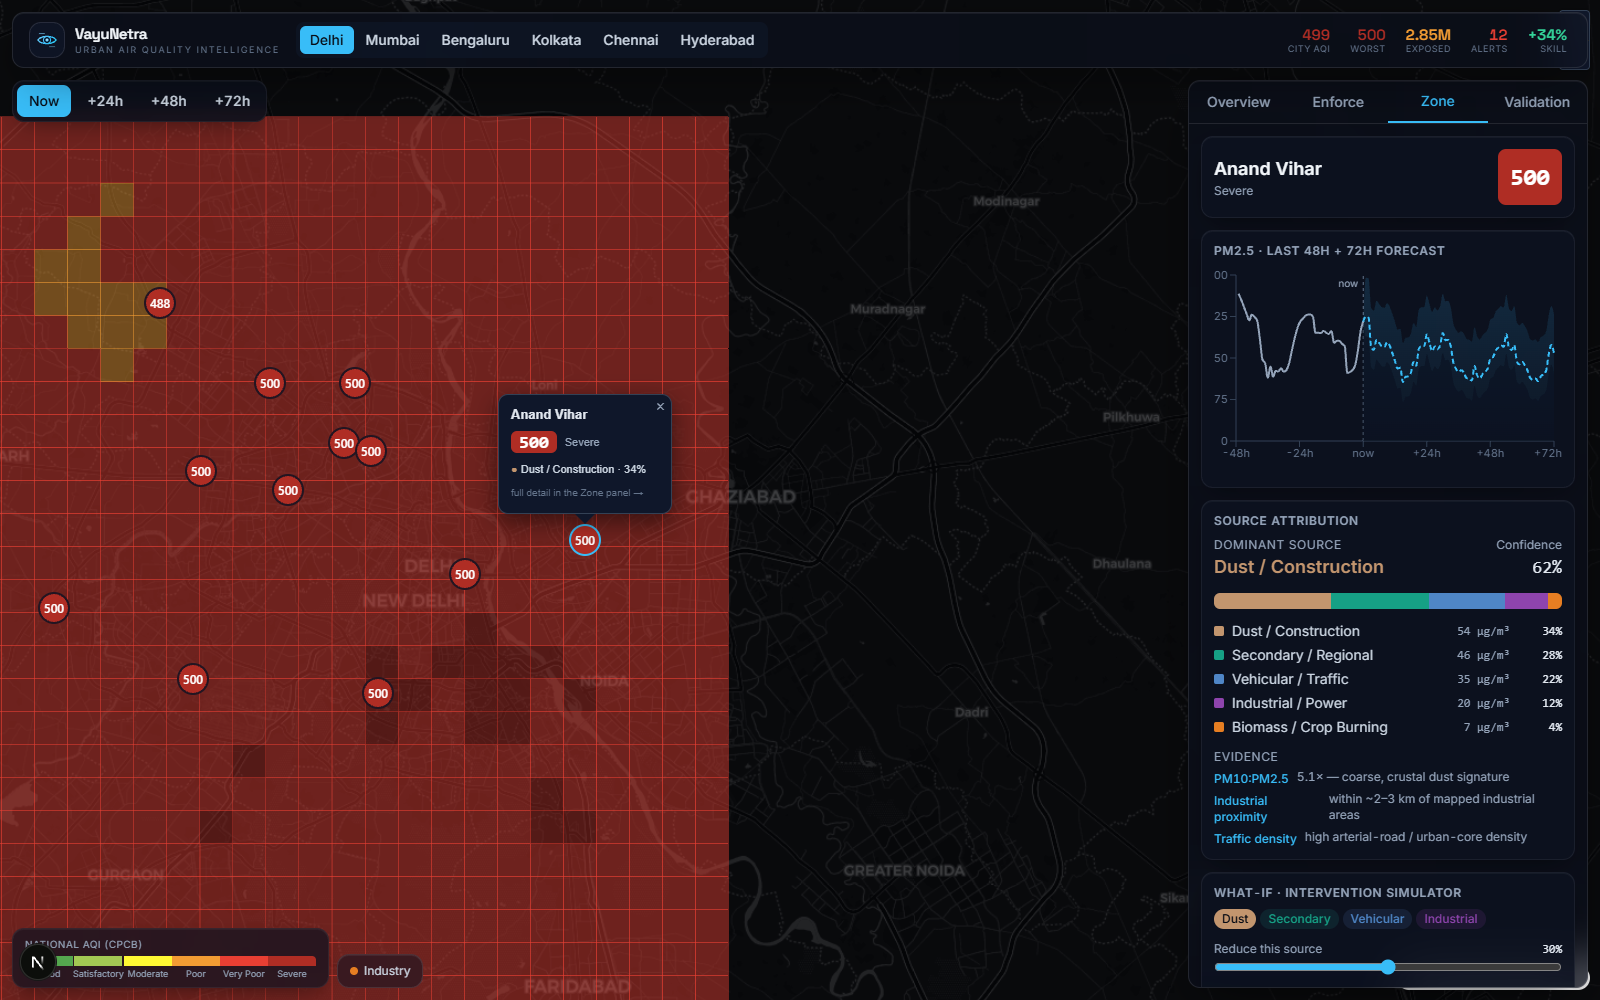
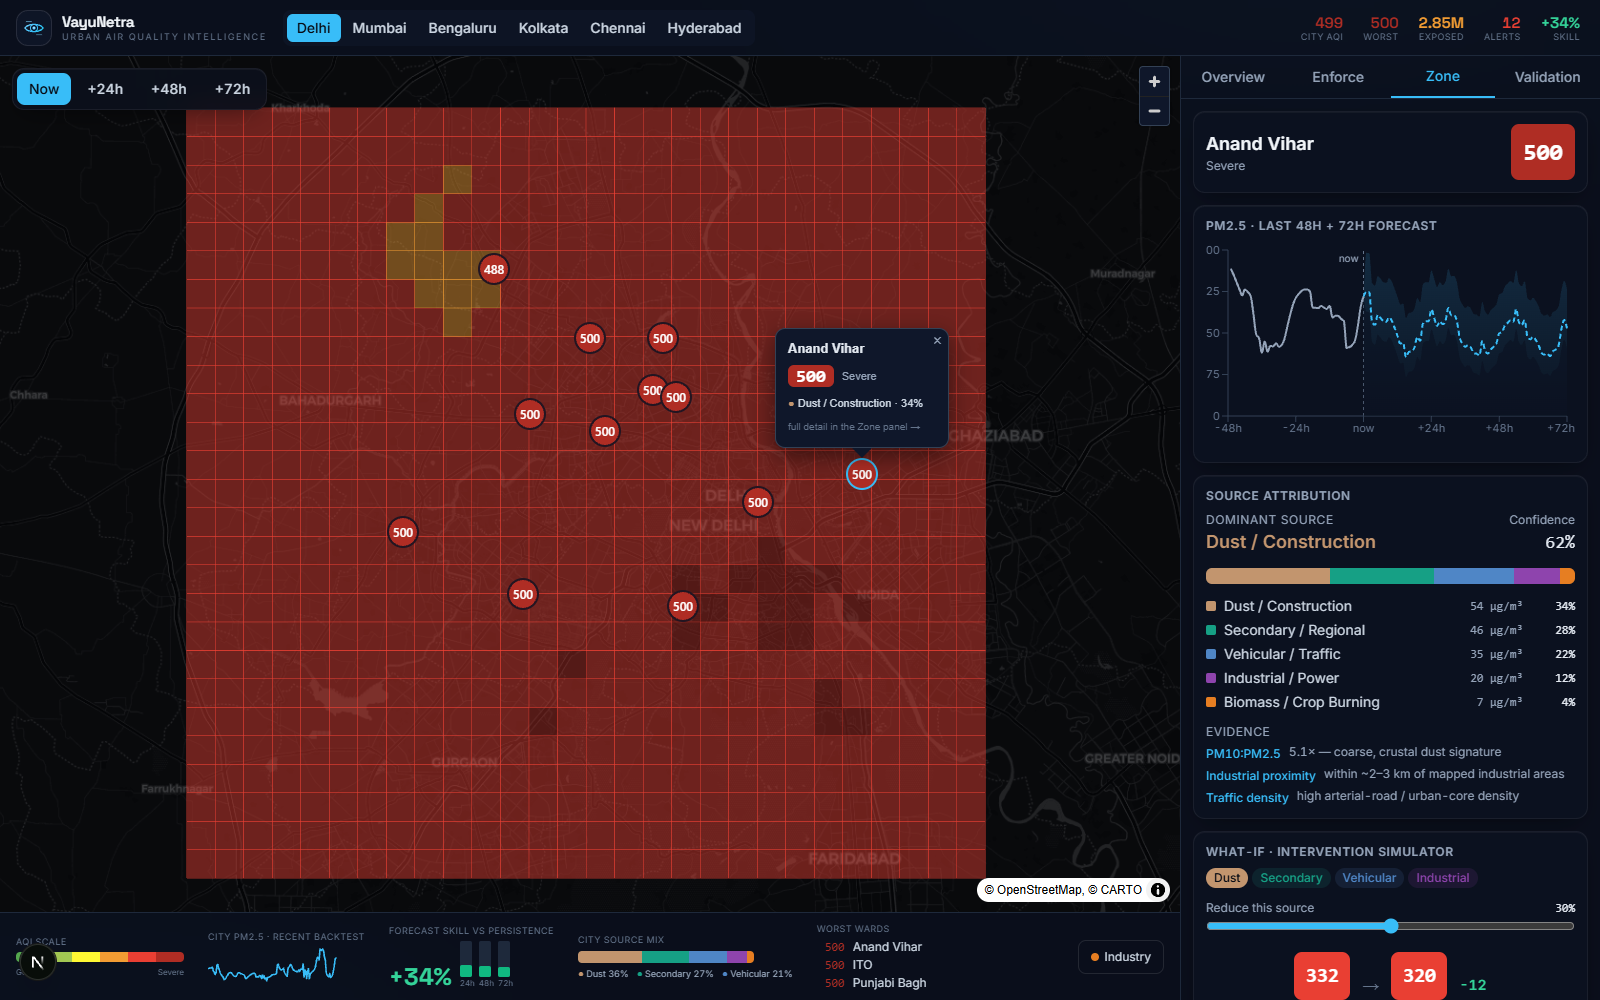
refactor(ui): robust side-by-side layout — detail rail beside map, no map-jump
- root cause of the click-goes-behind bug: floating panels over a full-bleed map plus an
  easeTo pan that threw the clicked marker behind a panel
- new shell: header on top, then map column and a solid detail rail side-by-side; telemetry
  strip under the map. The rail never overlaps the map, so nothing can hide
- clicking a station no longer pans the map; callout shows in place, detail fills the rail
- keeps the polish: glass header, custom logo, type system, telemetry strip

diff --git a/frontend/src/app/page.tsx b/frontend/src/app/page.tsx
@@ -78,7 +78,7 @@ export default function Page() {
   if (!cities.length && error) {
     return (
       <main className="grid min-h-screen place-items-center p-6">
-        <div className="glass max-w-md p-6 text-center">
+        <div className="card max-w-md p-6 text-center">
           <h1 className="text-lg font-semibold text-rose-400">Cannot reach the API</h1>
           <p className="mt-2 text-sm text-slate-400">{error}</p>
           <p className="mt-3 text-xs text-slate-500">
@@ -102,79 +102,82 @@ export default function Page() {
   }
 
   return (
-    <div className="relative h-screen w-screen overflow-hidden">
-      <div className="absolute inset-0">
-        <AirMap
-          city={city}
-          grid={grid}
-          attributions={intel?.attributions ?? []}
-          selectedZoneId={selectedZoneId}
-          onSelectZone={onSelectZone}
-          industrial={intel?.landuse?.industrial}
-          showIndustry={showIndustry}
-        />
-      </div>
-
+    <div className="flex h-screen flex-col">
       <Topbar cities={cities} cityId={cityId} onCity={setCityId} intel={intel} />
 
-      <div className="absolute left-3 top-20 z-20 flex flex-col items-start gap-2">
-        <TimeControl value={time} onChange={setTime} />
-        {time.layer === "forecast" && (
-          <div className="glass px-3 py-1.5 text-xs text-slate-200">Predicted AQI · +{time.horizon}h</div>
-        )}
-      </div>
-
-      {intel && (
-        <BottomStrip
-          intel={intel}
-          showIndustry={showIndustry}
-          onToggleIndustry={() => setShowIndustry((s) => !s)}
-        />
-      )}
-
-      <aside className="glass absolute bottom-3 right-3 top-20 z-20 flex w-[400px] flex-col overflow-hidden">
-        <div className="flex flex-shrink-0 border-b border-white/10">
-          {(["overview", "enforce", "zone", "metrics"] as Tab[]).map((t) => (
-            <button
-              key={t}
-              onClick={() => setTab(t)}
-              className={clsx(
-                "flex-1 py-2.5 text-sm font-medium capitalize transition-colors",
-                tab === t ? "border-b-2 border-brand text-brand" : "text-slate-400 hover:text-slate-200",
+      <div className="flex min-h-0 flex-1">
+        {/* map column: map + telemetry strip (nothing floats over the map except controls) */}
+        <div className="flex min-w-0 flex-1 flex-col">
+          <div className="relative min-h-0 flex-1">
+            <AirMap
+              city={city}
+              grid={grid}
+              attributions={intel?.attributions ?? []}
+              selectedZoneId={selectedZoneId}
+              onSelectZone={onSelectZone}
+              industrial={intel?.landuse?.industrial}
+              showIndustry={showIndustry}
+            />
+            <div className="absolute left-3 top-3 z-10 flex flex-col items-start gap-2">
+              <TimeControl value={time} onChange={setTime} />
+              {time.layer === "forecast" && (
+                <div className="card px-3 py-1.5 text-xs text-slate-200">Predicted AQI · +{time.horizon}h</div>
               )}
-            >
-              {t === "enforce" ? "Enforce" : t === "metrics" ? "Validation" : t}
-            </button>
-          ))}
+            </div>
+            {loading && (
+              <div className="absolute inset-0 z-20 grid place-items-center bg-ink-950/40 backdrop-blur-sm">
+                <div className="card px-4 py-3 text-sm text-slate-200">Building intelligence…</div>
+              </div>
+            )}
+          </div>
+          {intel && (
+            <BottomStrip
+              intel={intel}
+              showIndustry={showIndustry}
+              onToggleIndustry={() => setShowIndustry((s) => !s)}
+            />
+          )}
         </div>
-        <div key={tab} ref={sidebarRef} className="vn-fade min-h-0 flex-1 overflow-y-auto p-3">
-          {tab === "overview" &&
-            (intel ? (
-              <OverviewPanel intel={intel} onSelectZone={onSelectZone} onCity={setCityId} activeCityId={cityId} />
-            ) : (
-              <Placeholder text="Loading overview…" />
-            ))}
-          {tab === "enforce" &&
-            (intel ? (
-              <EnforcementPanel city={city} items={intel.enforcement} onSelectZone={onSelectZone} />
-            ) : (
-              <Placeholder text="Loading enforcement priorities…" />
-            ))}
-          {tab === "zone" &&
-            (selectedZoneId && intel ? (
-              <ZonePanel city={city} zoneId={selectedZoneId} attribution={attribution} advisory={advisory} />
-            ) : (
-              <Placeholder text="Click a station on the map to see its 72-hour forecast, source attribution and citizen advisory." />
-            ))}
-          {tab === "metrics" && (intel ? <MetricsPanel intel={intel} /> : <Placeholder text="Loading metrics…" />)}
-        </div>
-      </aside>
 
-      {loading && (
-        <div className="absolute inset-0 z-40 grid place-items-center bg-ink-950/40 backdrop-blur-sm">
-          <div className="glass px-4 py-3 text-sm text-slate-200">Building intelligence…</div>
-        </div>
-      )}
+        {/* detail rail — beside the map, so it can never hide what you clicked */}
+        <aside className="flex w-[420px] flex-shrink-0 flex-col border-l border-ink-700 bg-ink-900/60 backdrop-blur">
+          <div className="flex flex-shrink-0 border-b border-ink-700">
+            {(["overview", "enforce", "zone", "metrics"] as Tab[]).map((t) => (
+              <button
+                key={t}
+                onClick={() => setTab(t)}
+                className={clsx(
+                  "flex-1 py-2.5 text-sm font-medium capitalize transition-colors",
+                  tab === t ? "border-b-2 border-brand text-brand" : "text-slate-400 hover:text-slate-200",
+                )}
+              >
+                {t === "enforce" ? "Enforce" : t === "metrics" ? "Validation" : t}
+              </button>
+            ))}
+          </div>
+          <div key={tab} ref={sidebarRef} className="vn-fade min-h-0 flex-1 overflow-y-auto p-3">
+            {tab === "overview" &&
+              (intel ? (
+                <OverviewPanel intel={intel} onSelectZone={onSelectZone} onCity={setCityId} activeCityId={cityId} />
+              ) : (
+                <Placeholder text="Loading overview…" />
+              ))}
+            {tab === "enforce" &&
+              (intel ? (
+                <EnforcementPanel city={city} items={intel.enforcement} onSelectZone={onSelectZone} />
+              ) : (
+                <Placeholder text="Loading enforcement priorities…" />
+              ))}
+            {tab === "zone" &&
+              (selectedZoneId && intel ? (
+                <ZonePanel city={city} zoneId={selectedZoneId} attribution={attribution} advisory={advisory} />
+              ) : (
+                <Placeholder text="Click a station on the map to see its 72-hour forecast, source attribution and citizen advisory." />
+              ))}
+            {tab === "metrics" && (intel ? <MetricsPanel intel={intel} /> : <Placeholder text="Loading metrics…" />)}
+          </div>
+        </aside>
+      </div>
     </div>
   );
 }

diff --git a/frontend/src/components/AirMap.tsx b/frontend/src/components/AirMap.tsx
@@ -174,8 +174,7 @@ export default function AirMap({
       .setLngLat([z.center.lon, z.center.lat])
       .setHTML(html)
       .addTo(map);
-    map.easeTo({ center: [z.center.lon, z.center.lat], duration: 500,
-                 padding: { top: 80, right: 430, bottom: 90, left: 0 } });
+    // intentionally do NOT pan the map on selection — moving the map hides what was clicked.
   }, [ready, selectedZoneId, attributions, city]);
 
   // zone HTML markers (no glyph dependency, full styling control)
@@ -215,7 +214,7 @@ export default function AirMap({
     if (!ready || !map) return;
     const b = city.bbox;
     map.fitBounds([[b.min_lon, b.min_lat], [b.max_lon, b.max_lat]],
-      { padding: { top: 90, right: 430, bottom: 120, left: 40 }, duration: 700 });
+      { padding: { top: 48, right: 48, bottom: 48, left: 48 }, duration: 700 });
   }, [ready, city]);
 
   // NOTE: maplibre-gl.css forces `.maplibregl-map { position: relative }`, which overrides a

diff --git a/frontend/src/components/BottomStrip.tsx b/frontend/src/components/BottomStrip.tsx
@@ -47,7 +47,7 @@ export default function BottomStrip({
   const worst = [...intel.attributions].sort((a, b) => b.aqi - a.aqi).slice(0, 3);
 
   return (
-    <div className="glass absolute bottom-3 left-3 right-[416px] z-20 flex h-[92px] items-center gap-6 overflow-x-auto px-4">
+    <div className="flex h-[88px] flex-shrink-0 items-center gap-6 overflow-x-auto border-t border-ink-700 bg-ink-900/60 px-4 backdrop-blur">
       <Seg title="AQI scale">
         <div className="flex overflow-hidden rounded">
           {AQI_BANDS.map((b) => <span key={b.label} className="h-2.5 w-7" style={{ background: b.color }} title={b.label} />)}

diff --git a/frontend/src/components/Topbar.tsx b/frontend/src/components/Topbar.tsx
@@ -33,7 +33,7 @@ export default function Topbar({
   const severe = intel?.alerts?.filter((a) => a.level === "severe").length ?? 0;
 
   return (
-    <header className="glass absolute inset-x-3 top-3 z-30 flex h-14 items-center gap-3 px-4">
+    <header className="flex h-14 flex-shrink-0 items-center gap-3 border-b border-ink-700 bg-ink-900/70 px-4 backdrop-blur">
       <div className="flex items-center gap-2.5">
         <div className="grid h-9 w-9 place-items-center rounded-xl border border-white/10 bg-ink-850/70">
           <Logo size={22} />